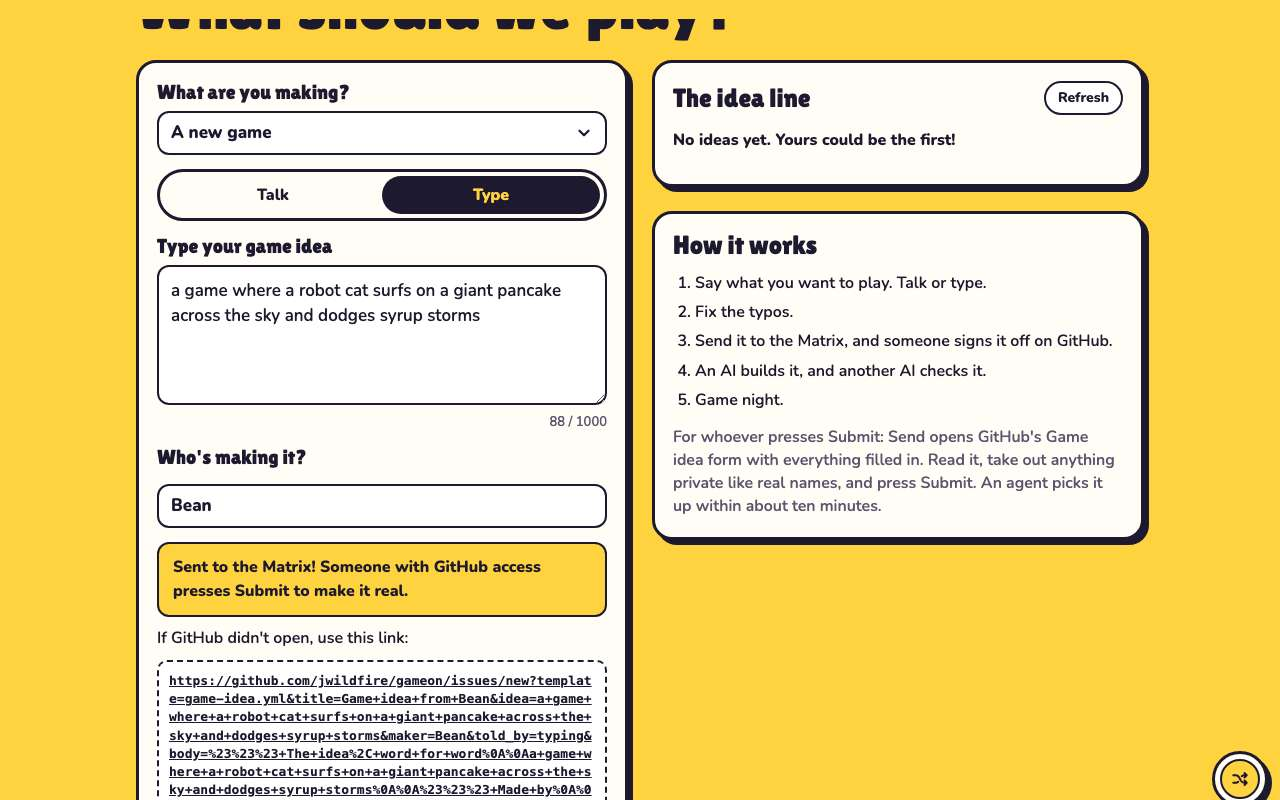
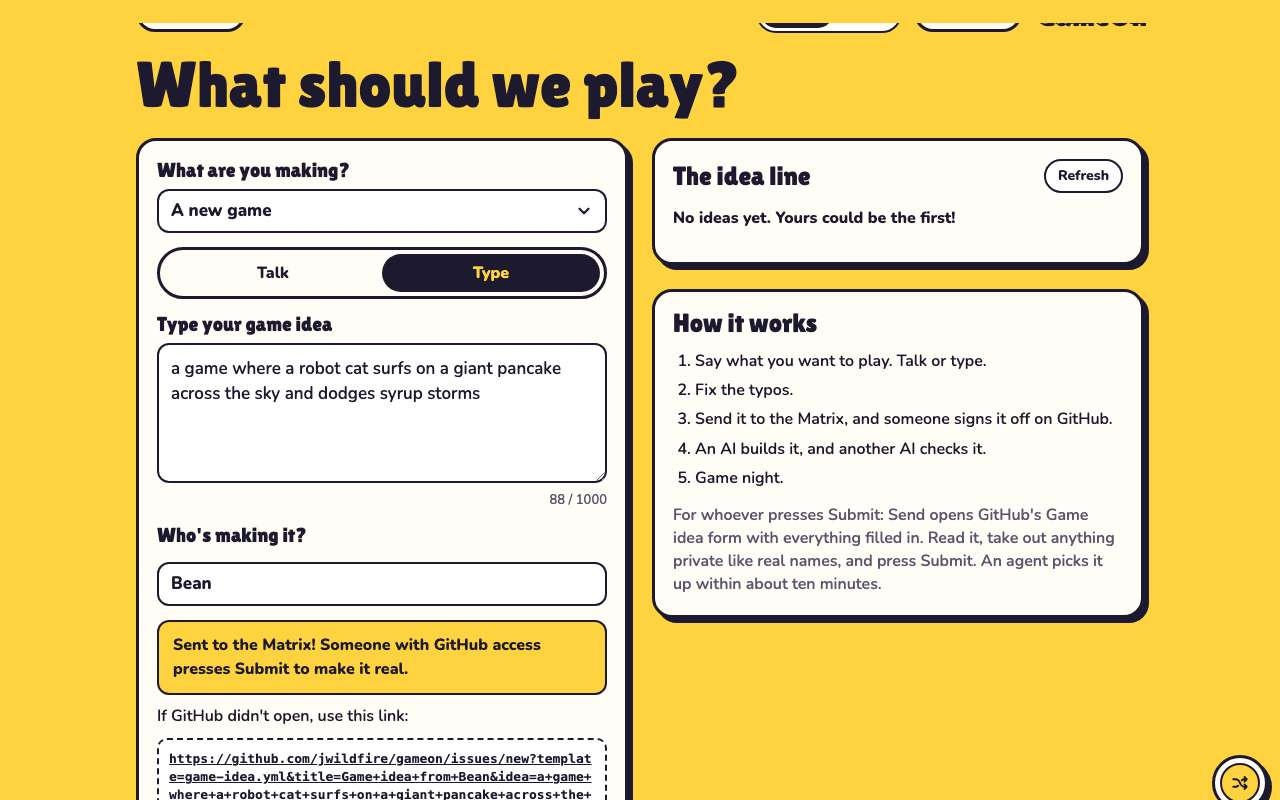
Keep intake refusals on screen and log why Turnstile fails

diff --git a/evidence/82-intake-page/index.html b/evidence/82-intake-page/index.html
@@ -14,15 +14,16 @@ h1 { font-size: 24px; margin: 0 0 4px; } h2 { font-size: 19px; margin: 28px 0 6p
 .pair img.desktop { width: 640px; } .pair img.phone { width: 220px; }
 </style></head><body>
 <h1>Evidence: 82-intake-page</h1>
-<p class="head">PASS: 9 of 9 checks pass at desktop and phone widths.</p>
-<p class="meta">Against the local server (python3 -m http.server) on this branch, from commit b2feae2, 2026-10-25 02:38 UTC. Spec: tests/evidence/82-intake-page.spec.mjs.</p>
+<p class="head">PASS: 10 of 10 checks pass at desktop and phone widths.</p>
+<p class="meta">Against the local server (python3 -m http.server) on this branch, from commit b1969f9, 2026-10-25 03:15 UTC. Spec: tests/evidence/82-intake-page.spec.mjs.</p>
 <section><h2>1. with a family code, Send posts the idea and the code, and it shows as Just sent</h2><p><span class="s ok">Desktop 1280: pass</span> <span class="s ok">Phone 375: pass</span></p><ul><li>desktop: body sent: {&quot;idea&quot;:&quot;&lt;idea&gt;&quot;,&quot;maker&quot;:&quot;Bean&quot;,&quot;told_by&quot;:&quot;typing&quot;,&quot;code&quot;:&quot;test-family-code-1&quot;}</li><li>phone: body sent: {&quot;idea&quot;:&quot;&lt;idea&gt;&quot;,&quot;maker&quot;:&quot;Bean&quot;,&quot;told_by&quot;:&quot;typing&quot;,&quot;code&quot;:&quot;test-family-code-1&quot;}</li></ul><div class="pair"><a href="family-code-desktop.jpg"><img class="desktop" src="family-code-desktop.jpg" alt="with a family code, Send posts the idea and the code, and it shows as Just sent: family-code-desktop.jpg" loading="lazy"></a><a href="family-code-phone.jpg"><img class="phone" src="family-code-phone.jpg" alt="with a family code, Send posts the idea and the code, and it shows as Just sent: family-code-phone.jpg" loading="lazy"></a></div><div class="pair"><a href="sent-known-desktop.jpg"><img class="desktop" src="sent-known-desktop.jpg" alt="with a family code, Send posts the idea and the code, and it shows as Just sent: sent-known-desktop.jpg" loading="lazy"></a><a href="sent-known-phone.jpg"><img class="phone" src="sent-known-phone.jpg" alt="with a family code, Send posts the idea and the code, and it shows as Just sent: sent-known-phone.jpg" loading="lazy"></a></div></section>
 <section><h2>2. the family code is remembered on this device until a grown-up forgets it</h2><p><span class="s ok">Desktop 1280: pass</span> <span class="s ok">Phone 375: pass</span></p><ul><li>desktop: saved as gameon.arcade.familyCode; still there after a reload</li><li>phone: saved as gameon.arcade.familyCode; still there after a reload</li></ul><div class="pair"><a href="code-remembered-desktop.jpg"><img class="desktop" src="code-remembered-desktop.jpg" alt="the family code is remembered on this device until a grown-up forgets it: code-remembered-desktop.jpg" loading="lazy"></a><a href="code-remembered-phone.jpg"><img class="phone" src="code-remembered-phone.jpg" alt="the family code is remembered on this device until a grown-up forgets it: code-remembered-phone.jpg" loading="lazy"></a></div></section>
 <section><h2>3. without a code, the robot check shows and its token is sent instead</h2><p><span class="s ok">Desktop 1280: pass</span> <span class="s ok">Phone 375: pass</span></p><ul><li>desktop: body sent: {&quot;idea&quot;:&quot;&lt;idea&gt;&quot;,&quot;maker&quot;:&quot;Zed&quot;,&quot;told_by&quot;:&quot;typing&quot;,&quot;turnstile&quot;:&quot;fake-turnstile-token&quot;}</li><li>phone: body sent: {&quot;idea&quot;:&quot;&lt;idea&gt;&quot;,&quot;maker&quot;:&quot;Zed&quot;,&quot;told_by&quot;:&quot;typing&quot;,&quot;turnstile&quot;:&quot;fake-turnstile-token&quot;}</li></ul><div class="pair"><a href="robot-check-desktop.jpg"><img class="desktop" src="robot-check-desktop.jpg" alt="without a code, the robot check shows and its token is sent instead: robot-check-desktop.jpg" loading="lazy"></a><a href="robot-check-phone.jpg"><img class="phone" src="robot-check-phone.jpg" alt="without a code, the robot check shows and its token is sent instead: robot-check-phone.jpg" loading="lazy"></a></div><div class="pair"><a href="sent-unknown-desktop.jpg"><img class="desktop" src="sent-unknown-desktop.jpg" alt="without a code, the robot check shows and its token is sent instead: sent-unknown-desktop.jpg" loading="lazy"></a><a href="sent-unknown-phone.jpg"><img class="phone" src="sent-unknown-phone.jpg" alt="without a code, the robot check shows and its token is sent instead: sent-unknown-phone.jpg" loading="lazy"></a></div></section>
-<section><h2>4. an update idea sends the game and version too</h2><p><span class="s ok">Desktop 1280: pass</span> <span class="s ok">Phone 375: pass</span></p></section>
-<section><h2>5. refusals read in plain kid-friendly words, and a wrong code is forgotten</h2><p><span class="s ok">Desktop 1280: pass</span> <span class="s ok">Phone 375: pass</span></p><ul><li>desktop: 3 tries: daily limit, wrong code, no internet</li><li>phone: 3 tries: daily limit, wrong code, no internet</li></ul><div class="pair"><a href="refused-desktop.jpg"><img class="desktop" src="refused-desktop.jpg" alt="refusals read in plain kid-friendly words, and a wrong code is forgotten: refused-desktop.jpg" loading="lazy"></a><a href="refused-phone.jpg"><img class="phone" src="refused-phone.jpg" alt="refusals read in plain kid-friendly words, and a wrong code is forgotten: refused-phone.jpg" loading="lazy"></a></div></section>
-<section><h2>6. the idea line reads /queue, never GitHub, and shows no idea words</h2><p><span class="s ok">Desktop 1280: pass</span> <span class="s ok">Phone 375: pass</span></p><ul><li>desktop: 4 ideas from GET /queue; 0 requests to api.github.com</li><li>phone: 4 ideas from GET /queue; 0 requests to api.github.com</li></ul><div class="pair"><a href="idea-line-desktop.jpg"><img class="desktop" src="idea-line-desktop.jpg" alt="the idea line reads /queue, never GitHub, and shows no idea words: idea-line-desktop.jpg" loading="lazy"></a><a href="idea-line-phone.jpg"><img class="phone" src="idea-line-phone.jpg" alt="the idea line reads /queue, never GitHub, and shows no idea words: idea-line-phone.jpg" loading="lazy"></a></div></section>
-<section><h2>7. the committed config points at the live Worker, with family codes off</h2><p><span class="s ok">Desktop 1280: pass</span> <span class="s ok">Phone 375: pass</span></p><ul><li>desktop: new/intake-config.js: url https://gameon-intake.jwildfire.workers.dev, the public Turnstile site key, familyCodes false</li><li>phone: new/intake-config.js: url https://gameon-intake.jwildfire.workers.dev, the public Turnstile site key, familyCodes false</li></ul></section>
-<section><h2>8. with family codes off, there's no code field and every idea goes through the robot check</h2><p><span class="s ok">Desktop 1280: pass</span> <span class="s ok">Phone 375: pass</span></p><ul><li>desktop: familyCodes: false hides the code field, ignores a code saved earlier, shows the robot check, and sends its token with no code</li><li>phone: familyCodes: false hides the code field, ignores a code saved earlier, shows the robot check, and sends its token with no code</li></ul><div class="pair"><a href="codes-off-desktop.jpg"><img class="desktop" src="codes-off-desktop.jpg" alt="with family codes off, there's no code field and every idea goes through the robot check: codes-off-desktop.jpg" loading="lazy"></a><a href="codes-off-phone.jpg"><img class="phone" src="codes-off-phone.jpg" alt="with family codes off, there's no code field and every idea goes through the robot check: codes-off-phone.jpg" loading="lazy"></a></div></section>
-<section><h2>9. with no intake configured, the page is the Phase 0 page</h2><p><span class="s ok">Desktop 1280: pass</span> <span class="s ok">Phone 375: pass</span></p><ul><li>desktop: Send opens GitHub's Game idea form; the idea line reads the GitHub API</li><li>phone: Send opens GitHub's Game idea form; the idea line reads the GitHub API</li></ul><div class="pair"><a href="unconfigured-desktop.jpg"><img class="desktop" src="unconfigured-desktop.jpg" alt="with no intake configured, the page is the Phase 0 page: unconfigured-desktop.jpg" loading="lazy"></a><a href="unconfigured-phone.jpg"><img class="phone" src="unconfigured-phone.jpg" alt="with no intake configured, the page is the Phase 0 page: unconfigured-phone.jpg" loading="lazy"></a></div></section>
+<section><h2>4. a refusal stays on screen when the robot check passes again by itself</h2><p><span class="s ok">Desktop 1280: pass</span> <span class="s ok">Phone 375: pass</span></p><ul><li>desktop: after a refused send and a fresh robot token, the refusal is still shown</li><li>phone: after a refused send and a fresh robot token, the refusal is still shown</li></ul></section>
+<section><h2>5. an update idea sends the game and version too</h2><p><span class="s ok">Desktop 1280: pass</span> <span class="s ok">Phone 375: pass</span></p></section>
+<section><h2>6. refusals read in plain kid-friendly words, and a wrong code is forgotten</h2><p><span class="s ok">Desktop 1280: pass</span> <span class="s ok">Phone 375: pass</span></p><ul><li>desktop: 3 tries: daily limit, wrong code, no internet</li><li>phone: 3 tries: daily limit, wrong code, no internet</li></ul><div class="pair"><a href="refused-desktop.jpg"><img class="desktop" src="refused-desktop.jpg" alt="refusals read in plain kid-friendly words, and a wrong code is forgotten: refused-desktop.jpg" loading="lazy"></a><a href="refused-phone.jpg"><img class="phone" src="refused-phone.jpg" alt="refusals read in plain kid-friendly words, and a wrong code is forgotten: refused-phone.jpg" loading="lazy"></a></div></section>
+<section><h2>7. the idea line reads /queue, never GitHub, and shows no idea words</h2><p><span class="s ok">Desktop 1280: pass</span> <span class="s ok">Phone 375: pass</span></p><ul><li>desktop: 4 ideas from GET /queue; 0 requests to api.github.com</li><li>phone: 4 ideas from GET /queue; 0 requests to api.github.com</li></ul><div class="pair"><a href="idea-line-desktop.jpg"><img class="desktop" src="idea-line-desktop.jpg" alt="the idea line reads /queue, never GitHub, and shows no idea words: idea-line-desktop.jpg" loading="lazy"></a><a href="idea-line-phone.jpg"><img class="phone" src="idea-line-phone.jpg" alt="the idea line reads /queue, never GitHub, and shows no idea words: idea-line-phone.jpg" loading="lazy"></a></div></section>
+<section><h2>8. the committed config points at the live Worker, with family codes off</h2><p><span class="s ok">Desktop 1280: pass</span> <span class="s ok">Phone 375: pass</span></p><ul><li>desktop: new/intake-config.js: url https://gameon-intake.jwildfire.workers.dev, the public Turnstile site key, familyCodes false</li><li>phone: new/intake-config.js: url https://gameon-intake.jwildfire.workers.dev, the public Turnstile site key, familyCodes false</li></ul></section>
+<section><h2>9. with family codes off, there's no code field and every idea goes through the robot check</h2><p><span class="s ok">Desktop 1280: pass</span> <span class="s ok">Phone 375: pass</span></p><ul><li>desktop: familyCodes: false hides the code field, ignores a code saved earlier, shows the robot check, and sends its token with no code</li><li>phone: familyCodes: false hides the code field, ignores a code saved earlier, shows the robot check, and sends its token with no code</li></ul><div class="pair"><a href="codes-off-desktop.jpg"><img class="desktop" src="codes-off-desktop.jpg" alt="with family codes off, there's no code field and every idea goes through the robot check: codes-off-desktop.jpg" loading="lazy"></a><a href="codes-off-phone.jpg"><img class="phone" src="codes-off-phone.jpg" alt="with family codes off, there's no code field and every idea goes through the robot check: codes-off-phone.jpg" loading="lazy"></a></div></section>
+<section><h2>10. with no intake configured, the page is the Phase 0 page</h2><p><span class="s ok">Desktop 1280: pass</span> <span class="s ok">Phone 375: pass</span></p><ul><li>desktop: Send opens GitHub's Game idea form; the idea line reads the GitHub API</li><li>phone: Send opens GitHub's Game idea form; the idea line reads the GitHub API</li></ul><div class="pair"><a href="unconfigured-desktop.jpg"><img class="desktop" src="unconfigured-desktop.jpg" alt="with no intake configured, the page is the Phase 0 page: unconfigured-desktop.jpg" loading="lazy"></a><a href="unconfigured-phone.jpg"><img class="phone" src="unconfigured-phone.jpg" alt="with no intake configured, the page is the Phase 0 page: unconfigured-phone.jpg" loading="lazy"></a></div></section>
 </body></html>

diff --git a/new/index.html b/new/index.html
@@ -497,7 +497,9 @@ html[data-mode="weird"] h1 { justify-self: start; background: var(--card); borde
     if (robotId !== null || !needRobot() || !window.turnstile) return;
     robotId = window.turnstile.render("#robot-widget", {
       sitekey: SITE_KEY,
-      callback: function (t) { robotToken = t; sendMsg.hidden = true; },
+      // A fresh token clears only the "tap the box" nudge. After a refused send the widget
+      // resets and often passes again on its own; that mustn't hide the refusal.
+      callback: function (t) { robotToken = t; if (sendMsg.textContent === NEED_ROBOT) sendMsg.hidden = true; },
       "expired-callback": function () { robotToken = ""; },
       "error-callback": function () { robotToken = ""; }
     });
@@ -508,11 +510,12 @@ html[data-mode="weird"] h1 { justify-self: start; background: var(--card); borde
     if (robotId !== null && window.turnstile) { try { window.turnstile.reset(robotId); } catch (e) {} }
   }
 
+  var NEED_ROBOT = "Tap the \"I'm not a robot\" box first.";
   function say(text) { sendMsg.textContent = text; sendMsg.hidden = false; }
 
   function sendToIntake(text, nick) {
     var code = loadCode();
-    if (!code && SITE_KEY && !robotToken) { say("Tap the \"I'm not a robot\" box first."); return; }
+    if (!code && SITE_KEY && !robotToken) { say(NEED_ROBOT); return; }
     var body = { idea: text, maker: nick, told_by: told };
     if (target) { body.game = target.slug; body.version = target.version; }
     if (code) body.code = code; else if (robotToken) body.turnstile = robotToken;

diff --git a/intake/src/limits.js b/intake/src/limits.js
@@ -74,7 +74,11 @@ export async function turnstileOk(env, deps, token, request) {
   const ip = request.headers.get("CF-Connecting-IP");
   if (ip) form.append("remoteip", ip);
   const res = await deps.fetch(SITEVERIFY, { method: "POST", body: form });
-  if (!res.ok) return false;
-  const data = await res.json();
-  return data && data.success === true;
+  // Log Cloudflare's reason when the check fails (the codes aren't secret), so a wrong
+  // TURNSTILE_SECRET shows up as "invalid-input-secret" in `wrangler tail`.
+  let data = null;
+  try { data = await res.json(); } catch (e) {}
+  const ok = res.ok && !!data && data.success === true;
+  if (!ok) console.log("turnstile failed", res.status, JSON.stringify((data && data["error-codes"]) || []));
+  return ok;
 }

diff --git a/evidence/82-intake-page/README.md b/evidence/82-intake-page/README.md
@@ -1,14 +1,15 @@
 # Evidence: 82-intake-page
 
-**PASS: 9 of 9 checks pass at desktop and phone widths.**
+**PASS: 10 of 10 checks pass at desktop and phone widths.**
 
-Generated by `npm run evidence -- 82-intake-page` from [`tests/evidence/82-intake-page.spec.mjs`](../../tests/evidence/82-intake-page.spec.mjs) against the local server (python3 -m http.server) on this branch, starting from commit b2feae2, 2026-10-25 02:38 UTC. Rules: [docs/evidence.md](../../docs/evidence.md).
+Generated by `npm run evidence -- 82-intake-page` from [`tests/evidence/82-intake-page.spec.mjs`](../../tests/evidence/82-intake-page.spec.mjs) against the local server (python3 -m http.server) on this branch, starting from commit b1969f9, 2026-10-25 03:15 UTC. Rules: [docs/evidence.md](../../docs/evidence.md).
 
 | Check | Desktop 1280 | Phone 375 |
 |---|---|---|
 | with a family code, Send posts the idea and the code, and it shows as Just sent | pass | pass |
 | the family code is remembered on this device until a grown-up forgets it | pass | pass |
 | without a code, the robot check shows and its token is sent instead | pass | pass |
+| a refusal stays on screen when the robot check passes again by itself | pass | pass |
 | an update idea sends the game and version too | pass | pass |
 | refusals read in plain kid-friendly words, and a wrong code is forgotten | pass | pass |
 | the idea line reads /queue, never GitHub, and shows no idea words | pass | pass |
@@ -41,35 +42,40 @@ Generated by `npm run evidence -- 82-intake-page` from [`tests/evidence/82-intak
 
 <img src="sent-unknown-desktop.jpg" alt="without a code, the robot check shows and its token is sent instead: sent-unknown-desktop.jpg" width="560"> <img src="sent-unknown-phone.jpg" alt="without a code, the robot check shows and its token is sent instead: sent-unknown-phone.jpg" width="240">
 
-## 4. an update idea sends the game and version too
+## 4. a refusal stays on screen when the robot check passes again by itself
 
-## 5. refusals read in plain kid-friendly words, and a wrong code is forgotten
+- desktop: after a refused send and a fresh robot token, the refusal is still shown
+- phone: after a refused send and a fresh robot token, the refusal is still shown
+
+## 5. an update idea sends the game and version too
+
+## 6. refusals read in plain kid-friendly words, and a wrong code is forgotten
 
 - desktop: 3 tries: daily limit, wrong code, no internet
 - phone: 3 tries: daily limit, wrong code, no internet
 
 <img src="refused-desktop.jpg" alt="refusals read in plain kid-friendly words, and a wrong code is forgotten: refused-desktop.jpg" width="560"> <img src="refused-phone.jpg" alt="refusals read in plain kid-friendly words, and a wrong code is forgotten: refused-phone.jpg" width="240">
 
-## 6. the idea line reads /queue, never GitHub, and shows no idea words
+## 7. the idea line reads /queue, never GitHub, and shows no idea words
 
 - desktop: 4 ideas from GET /queue; 0 requests to api.github.com
 - phone: 4 ideas from GET /queue; 0 requests to api.github.com
 
 <img src="idea-line-desktop.jpg" alt="the idea line reads /queue, never GitHub, and shows no idea words: idea-line-desktop.jpg" width="560"> <img src="idea-line-phone.jpg" alt="the idea line reads /queue, never GitHub, and shows no idea words: idea-line-phone.jpg" width="240">
 
-## 7. the committed config points at the live Worker, with family codes off
+## 8. the committed config points at the live Worker, with family codes off
 
 - desktop: new/intake-config.js: url https://gameon-intake.jwildfire.workers.dev, the public Turnstile site key, familyCodes false
 - phone: new/intake-config.js: url https://gameon-intake.jwildfire.workers.dev, the public Turnstile site key, familyCodes false
 
-## 8. with family codes off, there's no code field and every idea goes through the robot check
+## 9. with family codes off, there's no code field and every idea goes through the robot check
 
 - desktop: familyCodes: false hides the code field, ignores a code saved earlier, shows the robot check, and sends its token with no code
 - phone: familyCodes: false hides the code field, ignores a code saved earlier, shows the robot check, and sends its token with no code
 
 <img src="codes-off-desktop.jpg" alt="with family codes off, there's no code field and every idea goes through the robot check: codes-off-desktop.jpg" width="560"> <img src="codes-off-phone.jpg" alt="with family codes off, there's no code field and every idea goes through the robot check: codes-off-phone.jpg" width="240">
 
-## 9. with no intake configured, the page is the Phase 0 page
+## 10. with no intake configured, the page is the Phase 0 page
 
 - desktop: Send opens GitHub's Game idea form; the idea line reads the GitHub API
 - phone: Send opens GitHub's Game idea form; the idea line reads the GitHub API
